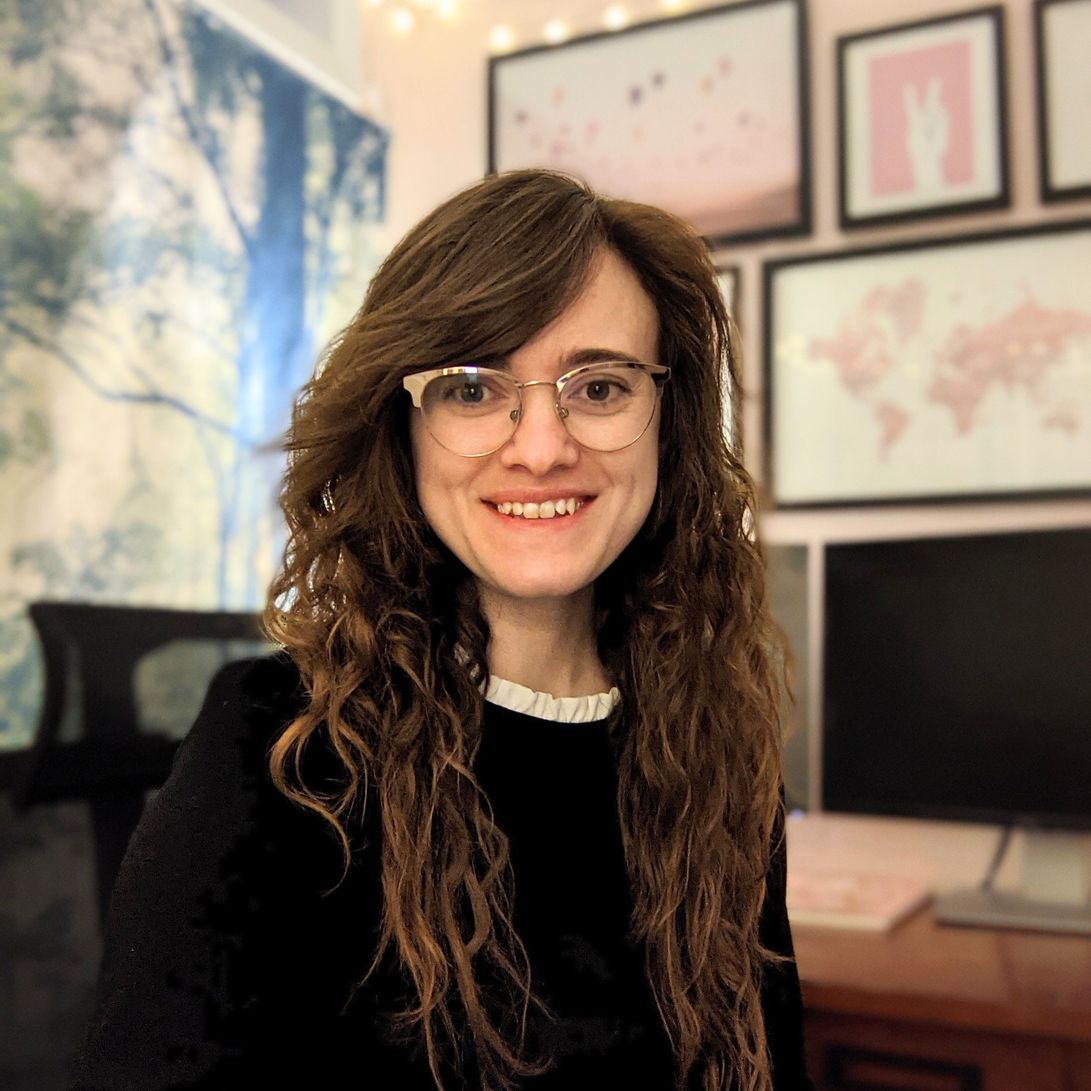
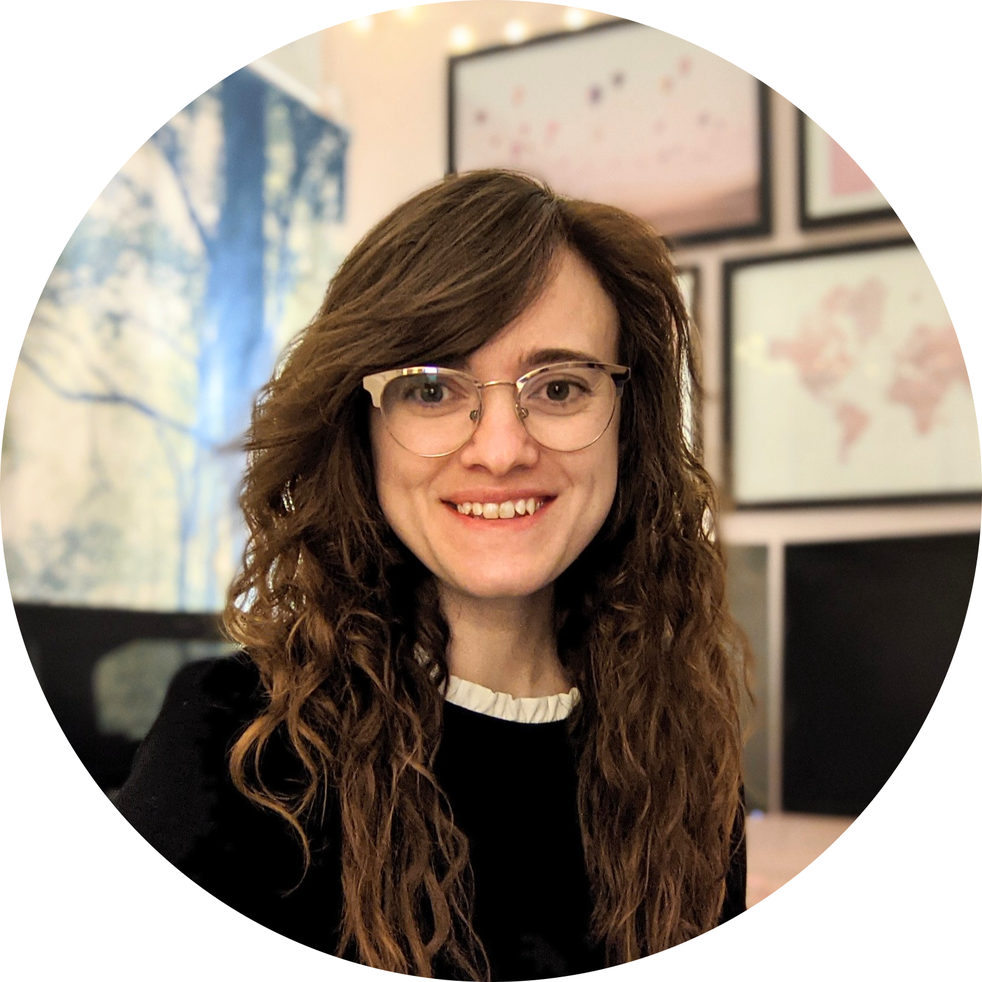
Formatting adjustments

diff --git a/resume/src/app/app.component.html b/resume/src/app/app.component.html
@@ -3,90 +3,85 @@
   <link rel="stylesheet" href="https://fonts.googleapis.com/css?family=Roboto">
 </head>
 
-<div class="content profile-header">
+<div class="main content">
 
-    <div class="profile-header-image">
-        <img src="assets/maria.png" class="profile-photo" />
-    </div>
+  <div class="section row profile-header">
 
-    <div class="profile-header-text">
+      <div class="column profile-header-image">
+          <img src="assets/maria.png" />
+      </div>
 
-      <h1 class="big-title">Hi! I'm Maria</h1>
-      <h2>A full stack software developer</h2>
+      <div class="column profile-header-text">
 
-      <p> 
-        I'm a natural leader who enjoys building teams and working together to create great software.
-        I'm passionate about sustainability and conservation, so I always look for ways to increase efficiency 
-        and reduce environmental impact with software.
-      </p>
+        <h1 class="big-title">Maria Damiani</h1>
+        <h2>Full stack software developer</h2>
 
-    </div>
-    
+        <p> 
+          I'm a natural leader who enjoys building teams and creating great software together.
+          I'm passionate about sustainability and conservation, so I find ways to increase efficiency 
+          and reduce environmental impact using software. 
+        </p>
+
+      </div>
+      
+  </div>
+
+  <div class="section">
+
+    <!--Skills-->
+    <h1>Skills</h1>
+    <mat-chip-set role="list">
+      <mat-chip role="listitem"> C# </mat-chip>
+      <mat-chip role="listitem"> .NET Framework </mat-chip>
+      <mat-chip role="listitem"> .NET Core </mat-chip>
+      <mat-chip role="listitem"> SQL Server </mat-chip>
+      <mat-chip role="listitem"> PowerShell </mat-chip>
+      <mat-chip role="listitem"> MS Build </mat-chip>
+      <mat-chip role="listitem"> Angular </mat-chip>
+      <mat-chip role="listitem"> HTML/CSS </mat-chip>
+      <mat-chip role="listitem"> REST API </mat-chip>
+      <mat-chip role="listitem"> IIS </mat-chip>
+      <mat-chip role="listitem"> Git </mat-chip>
+      <mat-chip role="listitem"> PLC/HMI </mat-chip>
+      <mat-chip role="listitem"> Systems Integration </mat-chip>
+      <mat-chip role="listitem"> Manufacturing </mat-chip>
+      <mat-chip role="listitem"> Software Team Leadership </mat-chip>
+      <mat-chip role="listitem"> Certified Agile Scrum Master </mat-chip>
+      <mat-chip role="listitem"> JIRA </mat-chip>
+      <mat-chip role="listitem"> Windows Administration </mat-chip>
+      <mat-chip role="listitem"> Network Troubleshooting </mat-chip>
+    </mat-chip-set>
+
+  </div>
+
+  <div class="section">
+
+    <!--Experience-->
+    <h1>Experience</h1>
+
+    <h3>3M - Senior Digital Shop Floor Software Engineer (T3)</h3>
+    <p>02/2020 - Current</p>
+    <br>
+    <h3>3M - Advanced Smart Manufacturing Systems Engineer (T2)</h3>
+    <p>04/2017 - 01/2020 (2yr 9mo)</p>
+    <br>
+    <h3>3M - SCADA Systems Engineer (T1)</h3>
+    <p>06/2015 - 03/2017 (1yr 9mo)</p>
+
+  </div>
+
+  <div class="section">
+
+    <!--Education-->
+    <h1>Education</h1>
+
+    <h3>Michigan Technological University</h3>
+    <p>05/2015 - BS Electrical Engineering & BS Computer Engineering - 3.97 GPA</p>
+
+  </div>
+
+  <footer>
+
+  </footer>
+
 </div>
-
-<div class="content">
-
-  <!--Skills-->
-  <h1>Skills</h1>
-  <mat-chip-set role="list">
-    <mat-chip role="listitem"> C# </mat-chip>
-    <mat-chip role="listitem"> .NET Framework </mat-chip>
-    <mat-chip role="listitem"> .NET Core </mat-chip>
-    <mat-chip role="listitem"> SQL Server </mat-chip>
-    <mat-chip role="listitem"> PowerShell </mat-chip>
-    <mat-chip role="listitem"> MS Build </mat-chip>
-    <mat-chip role="listitem"> Angular </mat-chip>
-    <mat-chip role="listitem"> HTML/CSS </mat-chip>
-    <mat-chip role="listitem"> REST API </mat-chip>
-  </mat-chip-set>
-  <mat-chip-set role="list">
-    <mat-chip role="listitem"> Git </mat-chip>
-    <mat-chip role="listitem"> Github </mat-chip>
-    <mat-chip role="listitem"> Azure DevOps </mat-chip>
-    <mat-chip role="listitem"> Bitbucket </mat-chip>
-    <mat-chip role="listitem"> Git Branch Strategy </mat-chip>
-    <mat-chip role="listitem"> Code Reviews & Merges </mat-chip>
-  </mat-chip-set>
-  <mat-chip-set role="list">
-    <mat-chip role="listitem"> Software Team Leadership </mat-chip>
-    <mat-chip role="listitem"> Certified Agile Scrum Master </mat-chip>
-    <mat-chip role="listitem"> JIRA </mat-chip>
-  </mat-chip-set>
-  <mat-chip-set role="list">
-    <mat-chip role="listitem"> Windows Administration </mat-chip>
-    <mat-chip role="listitem"> Network Troubleshooting </mat-chip>
-    <mat-chip role="listitem"> Active Directory </mat-chip>
-    <mat-chip role="listitem"> Kerberos </mat-chip>
-  </mat-chip-set>
-
-</div>
-
-<div class="content">
-
-  <!--Experience-->
-  <h1>Experience</h1>
-
-  <h3>3M - Senior Digital Shop Floor Software Engineer (T3)</h3>
-  <p>02/2020 - Current</p>
-  <br>
-  <h3>3M - Advanced Smart Manufacturing Systems Engineer (T2)</h3>
-  <p>04/2017 - 01/2020 (2yr 9mo)</p>
-  <br>
-  <h3>3M - SCADA Systems Engineer (T1)</h3>
-  <p>06/2015 - 03/2017 (1yr 9mo)</p>
-
-</div>
-
-<div class="content">
-
-  <!--Education-->
-  <h1>Education</h1>
-
-  <h3>Michigan Technological University</h3>
-  <p>05/2015 - BS Electrical Engineering & BS Computer Engineering - 3.97 GPA</p>
-
-</div>
-
-<footer>
-
-</footer>

diff --git a/resume/src/app/app.component.css b/resume/src/app/app.component.css
@@ -17,74 +17,71 @@ h6 {
 }
 
 p {
+    font-size: 16px;
     margin: 0;
 }
 
-.toolbar {
-    position: absolute;
-    top: 0;
-    left: 0;
-    right: 0;
-    height: 60px;
+.row {
     display: flex;
-    align-items: center;
-    background-color: #1976d2;
-    color: white;
-    font-weight: 600;
+    flex-direction: row;
+    flex-wrap: wrap;
+    width: 100%;
+}
+  
+.column {
+    display: flex;
+    flex-direction: column;
+    flex-basis: auto;
+    flex: 1;
 }
 
-.toolbar img {
-    margin: 0 16px;
+.main {
+    position: relative;
 }
 
 .content {
     display: flex;
     margin: 65px auto 20px;
-    padding: 0 16px;
+    padding: 0 50px;
     max-width: 960px;
     flex-direction: column;
-    align-items: left;
+    align-content: left;
 }
 
-.profile-photo {
-    display: inline;
-    margin: 0 auto;
-    height: 100%;
-    width: auto;
+.section {
+    margin: 30px 0px;
 }
 
 .profile-header {
-    display: grid;
-    align-items: center;
+    display: flex;
+    flex-direction: row;
+    flex-wrap: wrap;
+    align-content: left;
 }
 
 .profile-header-image {
-    grid-column: 1;
     width: 300px;
     height: 300px;
-    position: relative;
-    overflow: hidden;
-    border-radius: 50%;
+    order: 1;
+    margin: auto 50px auto 0px;
+    flex: 0 0 300px;
 }
 
 .profile-header-text {
-    grid-column: 2;
-    margin: auto 50px;
+    flex-grow: 1;
+    order: 2;
+    margin: auto 30px auto 0px;
+    min-width: 350px;
 }
 
 .big-title {
-    font-family: "Sono";
+    font-family: "Roboto";
     font-size: 50px;
 }
 
 footer {
-    margin-top: 8px;
+    margin-top: 200px;
     display: flex;
     align-items: center;
     line-height: 20px;
-}
-
-footer a {
-    display: flex;
-    align-items: center;
 }
